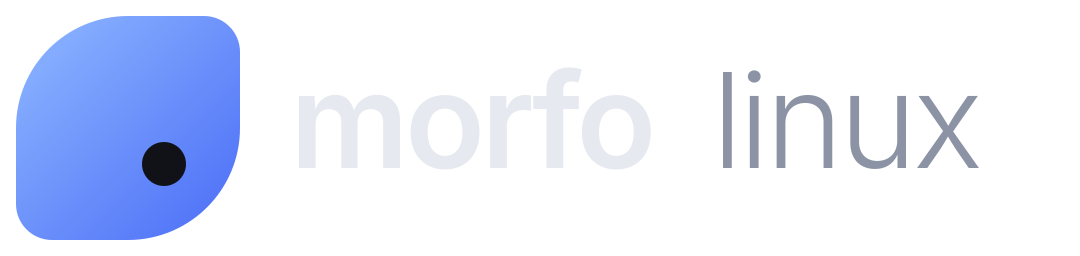
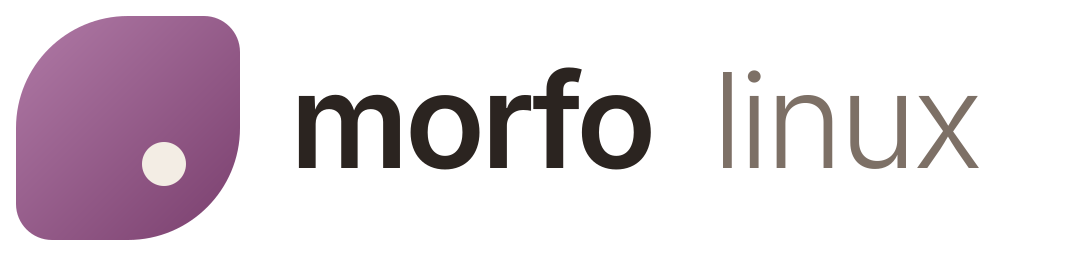
Tema padrão: Areia
Setup, tela de login, rede, boas-vindas, pós-instalação, retomada sem
internet, menu da ISO, Calamares e o app Android passam a começar em
Areia. Grafite continua a um toque.

Changed region(s): [[0.0, 0.0625, 0.2444, 0.9375], [0.275, 0.25, 0.6111, 0.6875], [0.6722, 0.2812, 0.9167, 0.6562]]

diff --git a/linux/live/config/includes.chroot/usr/share/calamares/branding/morfo/show.qml b/linux/live/config/includes.chroot/usr/share/calamares/branding/morfo/show.qml
@@ -23,8 +23,8 @@ Presentation {
         Rectangle {
             anchors.fill: parent
             gradient: Gradient {
-                GradientStop { position: 0.0; color: "#101218" }
-                GradientStop { position: 1.0; color: "#1C2338" }
+                GradientStop { position: 0.0; color: "#F3EDE4" }
+                GradientStop { position: 1.0; color: "#E9DECE" }
             }
         }
         Column {
@@ -39,7 +39,7 @@ Presentation {
             }
             Text {
                 text: slide.titulo
-                color: "#E6E9F0"
+                color: "#2B2420"
                 font.family: "Inter"
                 font.pixelSize: 30
                 font.weight: Font.Light
@@ -49,7 +49,7 @@ Presentation {
             }
             Text {
                 text: slide.texto
-                color: "#8C93A5"
+                color: "#7D7066"
                 font.family: "Inter"
                 font.pixelSize: 16
                 horizontalAlignment: Text.AlignHCenter

diff --git a/android/app/src/main/java/io/github/charlesmmorais/morfo/Tema.kt b/android/app/src/main/java/io/github/charlesmmorais/morfo/Tema.kt
@@ -41,7 +41,7 @@ enum class Tema(
     val outro: Tema get() = if (this == GRAFITE) AREIA else GRAFITE
 
     companion object {
-        fun porId(id: String?): Tema = entries.firstOrNull { it.id == id } ?: GRAFITE
+        fun porId(id: String?): Tema = entries.firstOrNull { it.id == id } ?: AREIA
     }
 }
 

diff --git a/linux/rootfs/usr/share/morfo/rede/morfo-rede.py b/linux/rootfs/usr/share/morfo/rede/morfo-rede.py
@@ -120,9 +120,9 @@ def barras(sinal: int) -> str:
 def tema_atual() -> str:
     try:
         t = (ESTADO / "tema").read_text().strip()
-        return t if t in ("grafite", "areia") else "grafite"
+        return t if t in ("grafite", "areia") else "areia"
     except OSError:
-        return "grafite"
+        return "areia"
 
 
 class Rede(Gtk.ApplicationWindow):

diff --git a/linux/live/config/includes.chroot/usr/share/morfo/boasvindas/morfo-boasvindas.py b/linux/live/config/includes.chroot/usr/share/morfo/boasvindas/morfo-boasvindas.py
@@ -30,9 +30,9 @@ NOME = {"grafite": "Grafite", "areia": "Areia"}
 def tema_salvo() -> str:
     try:
         t = (ESTADO / "tema").read_text().strip()
-        return t if t in TEMAS else "grafite"
+        return t if t in TEMAS else "areia"
     except OSError:
-        return "grafite"
+        return "areia"
 
 
 def salvar_tema(t: str) -> None:

diff --git a/linux/rootfs/usr/share/morfo/greeter/morfo-greeter.py b/linux/rootfs/usr/share/morfo/greeter/morfo-greeter.py
@@ -88,9 +88,9 @@ class Greetd:
 def tema_atual() -> str:
     try:
         t = (ESTADO / "tema").read_text().strip()
-        return t if t in TEMAS else "grafite"
+        return t if t in TEMAS else "areia"
     except OSError:
-        return "grafite"
+        return "areia"
 
 
 def salvar_tema(t: str) -> None:
